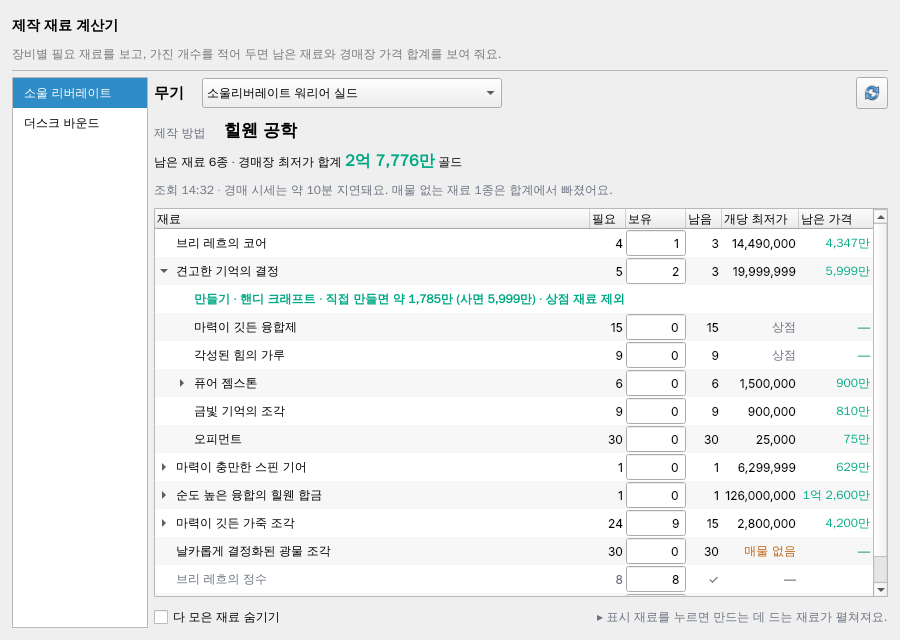
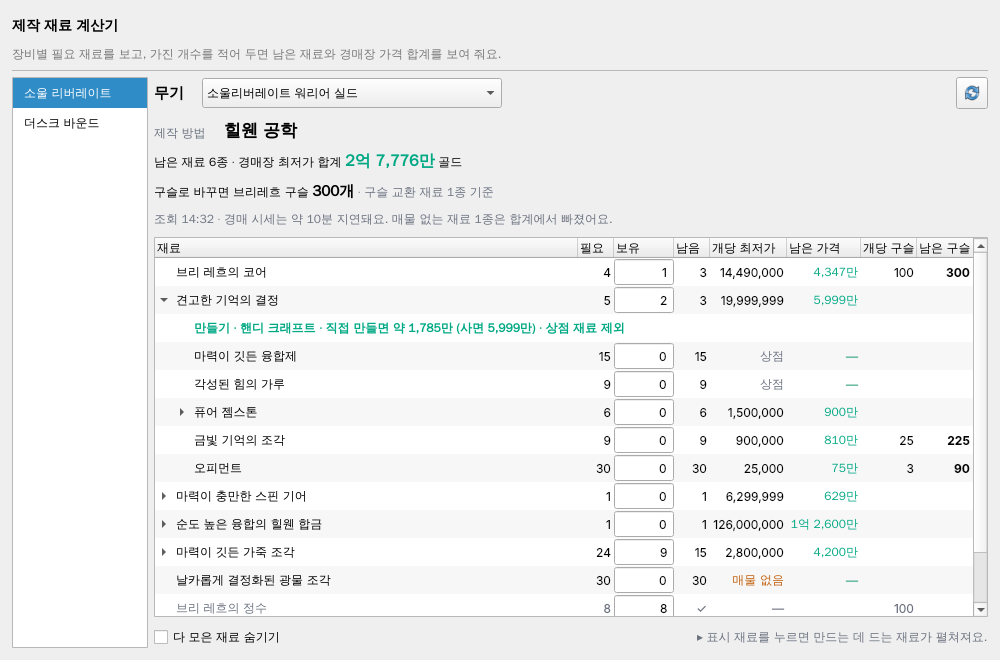
docs: 소울 리버레이트에도 구슬 열·브리레흐 구슬 합계(하위 줄 구슬 표시, 합계는 1단계) — 사용자 요청 11-16
Claude-Session: https://claude.ai/code/session_012tR8ejYmFbfiysA27exRqd

diff --git a/docs/craft-material-calculator-spec.md b/docs/craft-material-calculator-spec.md
@@ -17,7 +17,7 @@
 | 둘째 줄 | `제작 방법`(흐린 글자) + 제작 스킬 **17px 굵게, 일반 글자색**(민트 아님 — 합계와 눈길이 겹치지 않게). |
 | 합계 줄 | `남은 재료 N종 · 경매장 최저가 합계 <민트 굵게 korean_gold> 골드`. |
 | 상태 줄(흐림) | `조회 HH:MM · 경매 시세는 약 10분 지연돼요.` + 매물 없는 재료가 있으면 ` 매물 없는 재료 N종은 합계에서 빠졌어요.` 조회 중·실패·키 없음은 던전 입장 계산기와 같은 문구. |
-| 표 | `재료 | 필요 | 보유 | 남음 | 개당 최저가 | 남은 가격`. 보유 = 숫자 칸(직접 입력, 0~9999, 화살표 없음). 남음 = max(0, 필요−보유). 남은 가격 = 남음 × 최저가(`korean_gold`, 민트). |
+| 표 | `재료 | 필요 | 보유 | 남음 | 개당 최저가 | 남은 가격 | 개당 구슬 | 남은 구슬`(구슬 두 열은 5절 '구슬 열' 규칙 — 두 시리즈 공통). 보유 = 숫자 칸(직접 입력, 0~9999, 화살표 없음). 남음 = max(0, 필요−보유). 남은 가격 = 남음 × 최저가(`korean_gold`, 민트). |
 | 순서 | **남은 재료 위, 다 모은 재료 아래**(각 묶음 안은 데이터 순서). 다 모은 줄 = 흐린 글자, 남음 `✓`, 가격 칸 `—`/빈칸. 입력 중엔 줄이 움직이지 않게 다시 정렬은 **무기를 바꿀 때·탭에 다시 들어올 때만**. |
 | 매물 없음 | 개당 최저가 칸 주황 `매물 없음`, 남은 가격 `—`, 합계에서 제외(상태 줄에 종 수). 조회 실패한 재료도 같은 자리에 `조회 실패`, 합계 제외. |
 | 아래 줄 | 왼쪽 `다 모은 재료 숨기기` 체크(저장), 오른쪽 흐린 안내 `보유 개수는 재료별로 저장돼 다른 무기에도 같이 적용돼요.` |
@@ -65,12 +65,12 @@
 | 아래 안내 | `공정 횟수는 예상치예요. 99%가 되기까지 실제 횟수는 달라질 수 있어요.`(소울 리버레이트에선 1절 보유 안내) |
 | 저장 | 보유는 3절 그대로(재료별 — 빛바랜 에너지 회로·마감 재료처럼 세트끼리 같은 재료는 공유). 세트별 체크한 부위·공정 횟수도 config에 기억(`craftChoice`). |
 | 시세 | 4절 그대로(그 세트 재료 전부 조회, 재료별 10분 캐시). |
-| 구슬 합계 | 사용자 결정 11-16. 합계 줄 바로 아래 한 줄: `구슬로 바꾸면 탈라가흐 구슬 N개`(굵게) + 흐린 `· 구슬 교환 재료 K종 기준`. N = 남은 재료 중 **환전비율 계산기 교환표(`market.exchange.REGIONS`)에 있는 재료**의 남음 × 구슬 수 합. 교환표가 하나의 출처(JSON에 구슬 수를 따로 적지 않음). 교환표에 없는 재료(미스릴 대못·미스릴판·질긴 실·최고급 실크·최고급 옷감·희미한 에너지 조각 — 제작 재료)는 **표시 없이 제외**(지금은 안내도 하지 않음). 지역이 여럿이면 `탈라가흐 구슬 N개 · 브리레흐 구슬 M개`. 소울 리버레이트에는 이번에 넣지 않음. |
-| 구슬 열 | 사용자 요청 11-16. 더스크 바운드 표 끝에 두 열: `개당 구슬`(교환표 구슬 수) · `남은 구슬`(남음 × 개당 구슬, 굵게). 교환표에 없는 재료는 두 칸 비움, 다 모은 재료는 `남은 구슬` 비움. 표 열 = `재료 | 필요 | 보유 | 남음 | 개당 최저가 | 남은 가격 | 개당 구슬 | 남은 구슬`. 소울 리버레이트 표는 6열 그대로. |
+| 구슬 합계 | 사용자 결정 11-16(두 시리즈 공통 — 1·6절에도 적용). 합계 줄 바로 아래 한 줄: `구슬로 바꾸면 탈라가흐 구슬 N개`(굵게) + 흐린 `· 구슬 교환 재료 K종 기준`. N = 남은 재료 중 **환전비율 계산기 교환표(`market.exchange.REGIONS`)에 있는 재료**의 남음 × 구슬 수 합. 교환표가 하나의 출처(JSON에 구슬 수를 따로 적지 않음). 교환표에 없는 재료(미스릴 대못·미스릴판·질긴 실·최고급 실크·최고급 옷감·희미한 에너지 조각 — 제작 재료)는 **표시 없이 제외**(지금은 안내도 하지 않음). 지역이 여럿이면 `탈라가흐 구슬 N개 · 브리레흐 구슬 M개`. **소울 리버레이트에도 같은 줄**(사용자 요청 11-16 — 정수·코어는 브리레흐 구슬 100): `브리레흐 구슬 N개`, 1단계 재료 기준(펼친 하위 재료는 넣지 않음 — 골드 합계와 같은 기준). |
+| 구슬 열 | 사용자 요청 11-16. 더스크 바운드 표 끝에 두 열: `개당 구슬`(교환표 구슬 수) · `남은 구슬`(남음 × 개당 구슬, 굵게). 교환표에 없는 재료는 두 칸 비움, 다 모은 재료는 `남은 구슬` 비움. 표 열 = `재료 | 필요 | 보유 | 남음 | 개당 최저가 | 남은 가격 | 개당 구슬 | 남은 구슬`. **소울 리버레이트 표도 같은 8열**(사용자 요청 11-16), 펼친 하위 재료 줄에도 구슬 칸 표시(예: 오피먼트 3·금빛 기억의 조각 25 — 브리레흐 교환표). 하위 줄 구슬은 위쪽 구슬 합계에 넣지 않음. |
 
 ## 6. 하위 재료 펼치기 (사용자 결정 11-16)
 
-![재료를 누르면 만드는 재료가 아래로 펼쳐짐 — 견고한 기억의 결정 펼친 상태 (하위 시세는 예시)](assets/craft-materials-20261115/sub-materials.png)
+![재료를 누르면 만드는 재료가 아래로 펼쳐짐 — 견고한 기억의 결정 펼친 상태, 구슬 열·브리레흐 구슬 줄 포함 (하위 시세는 예시)](assets/craft-materials-20261115/sub-materials.png)
 
 | 항목 | 결정 |
 | --- | --- |
@@ -88,6 +88,6 @@
 - 계산(순수 함수): 남음·남은 가격·합계, 매물 없음·조회 실패 제외와 종 수, 정렬(남은 위·데이터 순서 유지), 보유 > 필요.
 - 보유 저장: 재료별 공유(소드에서 정수 입력 → 블레이드에서 같은 값), 재시작 후 유지.
 - 시세: 가짜 urlopen으로 성공·매물 없음·일부 실패·키 없음, 10분 캐시 재사용·새로고침 강제.
-- 더스크 바운드: 3세트 × 4부위, 필요 수량 = 1공정 × 공정 × 부위 / 마감 × 부위(이지스 4부위 7공정 → 광두정 840·동력원 4), 부위 0개 안내, 세트 바꿔도 공통 재료 보유 유지, 체크·공정 기억. 구슬: 이지스 4부위 7공정 보유 0 → 광두정 840×3 + 회로 28×35 + 주괴 84×6 + 동력원 4×200 = 4,804개, 다 모은 재료·교환표에 없는 재료 제외, 교환표 값 바뀌면 따라감. 구슬 열: 남은 구슬 합 = 위 구슬 합계 줄과 같음, 교환표 없는 재료 빈칸.
+- 더스크 바운드: 3세트 × 4부위, 필요 수량 = 1공정 × 공정 × 부위 / 마감 × 부위(이지스 4부위 7공정 → 광두정 840·동력원 4), 부위 0개 안내, 세트 바꿔도 공통 재료 보유 유지, 체크·공정 기억. 구슬: 이지스 4부위 7공정 보유 0 → 광두정 840×3 + 회로 28×35 + 주괴 84×6 + 동력원 4×200 = 4,804개, 다 모은 재료·교환표에 없는 재료 제외, 교환표 값 바뀌면 따라감. 구슬 열: 남은 구슬 합(1단계 줄) = 위 구슬 합계 줄과 같음, 교환표 없는 재료 빈칸. 소울 리버레이트: 워리어 실드 코어 남음 3 → 브리레흐 구슬 300, 하위 줄 구슬은 합계 제외.
 - 하위 재료: 하위 수량 = 부모 남음 × 개당(견고한 기억의 결정 남음 3 → 오피먼트 30·퓨어 젬스톤 6), 부모 다 모음 → 하위 0, 비교 줄 X·Y와 제외 문구, 상점 재료 조회 안 함·합 제외, 위쪽 합계는 펼쳐도 그대로, `crafts` 28종 순환 없음·꼬리표 없음.
 - 화면: 오프스크린 렌더(시세 있음·조회 중·키 없음·다 모음 숨기기, 더스크 바운드 세 세트·부위 일부 체크, 하위 재료 펼침 2단계) 사용자 확인.

diff --git a/docs/status.md b/docs/status.md
@@ -6,7 +6,7 @@
 
 ## 배포와 검증
 
-- **제작 재료 계산기 + 더스크 바운드 추가(2026-11-15 사용자 결정 — 모든 사용자 공개, 개발 대상)**: [명세](craft-material-calculator-spec.md). 더스크 바운드(5절): 이지스·비고러스·에테리얼 3세트 × 4부위(재료 같음), 부위 체크 + 공정 횟수(기본 7) × 1공정 재료 + 부위마다 마감 재료, 데이터 `dusk_bound.json`. 하위 재료 펼치기(6절, 11-16): 트리 표로 ▸ 누르면 만드는 재료(부모 남음 × 개당), 비교 줄 '직접 만들면 X (사면 Y)', 위쪽 합계는 1단계 기준 그대로, 상점 재료는 표시만. 더스크 바운드 구슬 합계(11-16): 남은 재료 중 환전비율 계산기 교환표에 있는 것만 남음 × 구슬 수 → `탈라가흐 구슬 N개`. 표에도 `개당 구슬`·`남은 구슬` 열(더스크 바운드만). 편의기능 › `제작 재료 계산기`, 왼쪽 시리즈 목록(지금 `소울 리버레이트`만 — 더스크 바운드·나이트 브링어는 나중에 데이터만 추가),
+- **제작 재료 계산기 + 더스크 바운드 추가(2026-11-15 사용자 결정 — 모든 사용자 공개, 개발 대상)**: [명세](craft-material-calculator-spec.md). 더스크 바운드(5절): 이지스·비고러스·에테리얼 3세트 × 4부위(재료 같음), 부위 체크 + 공정 횟수(기본 7) × 1공정 재료 + 부위마다 마감 재료, 데이터 `dusk_bound.json`. 하위 재료 펼치기(6절, 11-16): 트리 표로 ▸ 누르면 만드는 재료(부모 남음 × 개당), 비교 줄 '직접 만들면 X (사면 Y)', 위쪽 합계는 1단계 기준 그대로, 상점 재료는 표시만. 더스크 바운드 구슬 합계(11-16): 남은 재료 중 환전비율 계산기 교환표에 있는 것만 남음 × 구슬 수 → `탈라가흐 구슬 N개`. 표에도 `개당 구슬`·`남은 구슬` 열 — 소울 리버레이트에도 같은 열·`브리레흐 구슬 N개` 줄(11-16, 하위 줄에도 구슬 칸, 합계는 1단계 기준). 편의기능 › `제작 재료 계산기`, 왼쪽 시리즈 목록(지금 `소울 리버레이트`만 — 더스크 바운드·나이트 브링어는 나중에 데이터만 추가),
   `무기` 드롭다운 한 줄 + `제작 방법` 17px, 표 `재료|필요|보유|남음|개당 최저가|남은 가격`(남은 것 위), 남은 재료 경매장 최저가 합계. 보유 = 재료별 저장(무기끼리 공유).
   데이터 = 커뮤니티 시트 `무기재료` 29종 × 1단계 8종(`docs/assets/craft-materials-20261115/soul_liberate.json`), 워리어 실드 제작 스킬은 인게임 화면으로 힐웬 공학 확정.
 
